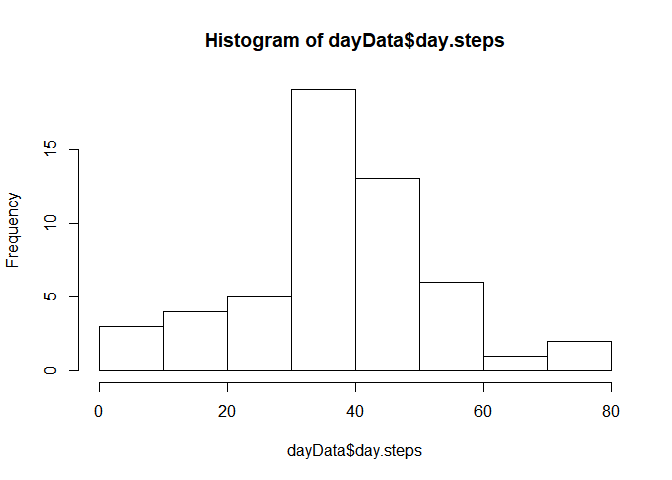
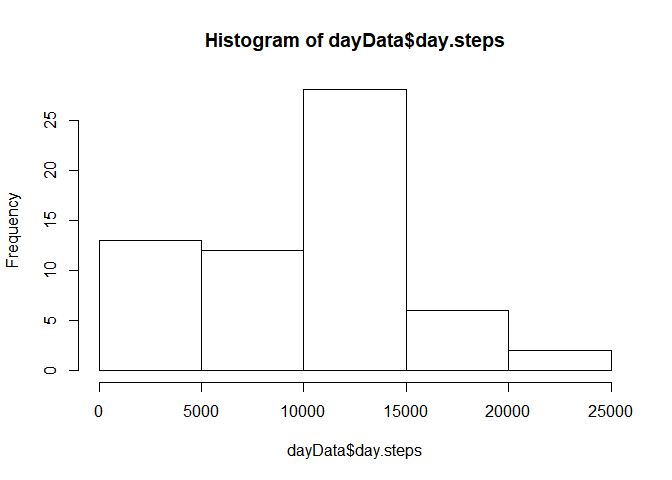
changed mean to sum

diff --git a/PA1_template.html b/PA1_template.html
@@ -151,22 +151,22 @@ $(document).ready(function () {
 ##     intersect, setdiff, setequal, union</code></pre>
 <pre class="r"><code>dayData &lt;- myData %&gt;%
   group_by(date) %&gt;%
-  summarise(day.steps=mean(steps,na.rm=TRUE))</code></pre>
+  summarise(day.steps=sum(steps,na.rm=TRUE))</code></pre>
 <ol style="list-style-type: decimal">
 <li>a histogram of the total number of steps taken each day</li>
 </ol>
 <pre class="r"><code>hist(dayData$day.steps)</code></pre>
[2 lines of base64/hex data omitted]
 <ol start="2" style="list-style-type: decimal">
 <li>the mean total number of steps taken per day</li>
 </ol>
 <pre class="r"><code>mean(dayData$day.steps, na.rm = TRUE)</code></pre>
-<pre><code>## [1] 37.3826</code></pre>
+<pre><code>## [1] 9354.23</code></pre>
 <ol start="3" style="list-style-type: decimal">
 <li>the median total number of steps taken per day</li>
 </ol>
 <pre class="r"><code>median(dayData$day.steps, na.rm = TRUE)</code></pre>
-<pre><code>## [1] 37.37847</code></pre>
+<pre><code>## [1] 10395</code></pre>
 </div>
 <div id="what-is-the-average-daily-activity-pattern" class="section level2">
 <h2>What is the average daily activity pattern?</h2>
@@ -251,26 +251,26 @@ completeData$date &lt;- completeData$day + as.Date(c(&quot;2012-10-01&quot;))</c
 <pre class="r"><code>require(dplyr)
 dayCompleteData &lt;- completeData %&gt;%
   group_by(date) %&gt;%
-  summarise(day.steps=mean(steps,na.rm=TRUE))</code></pre>
+  summarise(day.steps=sum(steps,na.rm=TRUE))</code></pre>
 <ul>
 <li>a histogram of the total number of steps taken each day</li>
 </ul>
 <pre class="r"><code>hist(dayCompleteData$day.steps)</code></pre>
[2 lines of base64/hex data omitted]
 <ul>
 <li>the mean total number of steps taken per day</li>
 </ul>
 <pre class="r"><code>mean(dayCompleteData$day.steps, na.rm = TRUE)</code></pre>
-<pre><code>## [1] 36.93306</code></pre>
+<pre><code>## [1] 10636.72</code></pre>
 <ul>
 <li>the median total number of steps taken per day</li>
 </ul>
 <pre class="r"><code>median(dayCompleteData$day.steps, na.rm = TRUE)</code></pre>
-<pre><code>## [1] 36.70486</code></pre>
+<pre><code>## [1] 10571</code></pre>
 <ul>
 <li>Do these values differ from the estimates from the first part of the assignment? What is the impact of imputing missing data on the estimates of the total daily number of steps?</li>
 </ul>
-<p>Yes, both mean and median became slightly lower.</p>
+<p>Yes, both mean and median increased.</p>
 </div>
 <div id="are-there-differences-in-activity-patterns-between-weekdays-and-weekends" class="section level2">
 <h2>Are there differences in activity patterns between weekdays and weekends?</h2>

diff --git a/PA1_template.md b/PA1_template.md
@@ -62,7 +62,7 @@ require(dplyr)
 ```r
 dayData <- myData %>%
   group_by(date) %>%
-  summarise(day.steps=mean(steps,na.rm=TRUE))
+  summarise(day.steps=sum(steps,na.rm=TRUE))
 ```
 
 
@@ -81,7 +81,7 @@ mean(dayData$day.steps, na.rm = TRUE)
 ```
 
 ```
-## [1] 37.3826
+## [1] 9354.23
 ```
 
 3. the median total number of steps taken per day
@@ -91,7 +91,7 @@ median(dayData$day.steps, na.rm = TRUE)
 ```
 
 ```
-## [1] 37.37847
+## [1] 10395
 ```
 
 ## What is the average daily activity pattern?
@@ -218,7 +218,7 @@ completeData$date <- completeData$day + as.Date(c("2012-10-01"))
 require(dplyr)
 dayCompleteData <- completeData %>%
   group_by(date) %>%
-  summarise(day.steps=mean(steps,na.rm=TRUE))
+  summarise(day.steps=sum(steps,na.rm=TRUE))
 ```
 
 * a histogram of the total number of steps taken each day
@@ -236,7 +236,7 @@ mean(dayCompleteData$day.steps, na.rm = TRUE)
 ```
 
 ```
-## [1] 36.93306
+## [1] 10636.72
 ```
 
 * the median total number of steps taken per day
@@ -246,11 +246,11 @@ median(dayCompleteData$day.steps, na.rm = TRUE)
 ```
 
 ```
-## [1] 36.70486
+## [1] 10571
 ```
 * Do these values differ from the estimates from the first part of the assignment? What is the impact of imputing missing data on the estimates of the total daily number of steps?
 
-Yes, both mean and median became slightly lower.
+Yes, both mean and median increased.
 
 
 ## Are there differences in activity patterns between weekdays and weekends?
